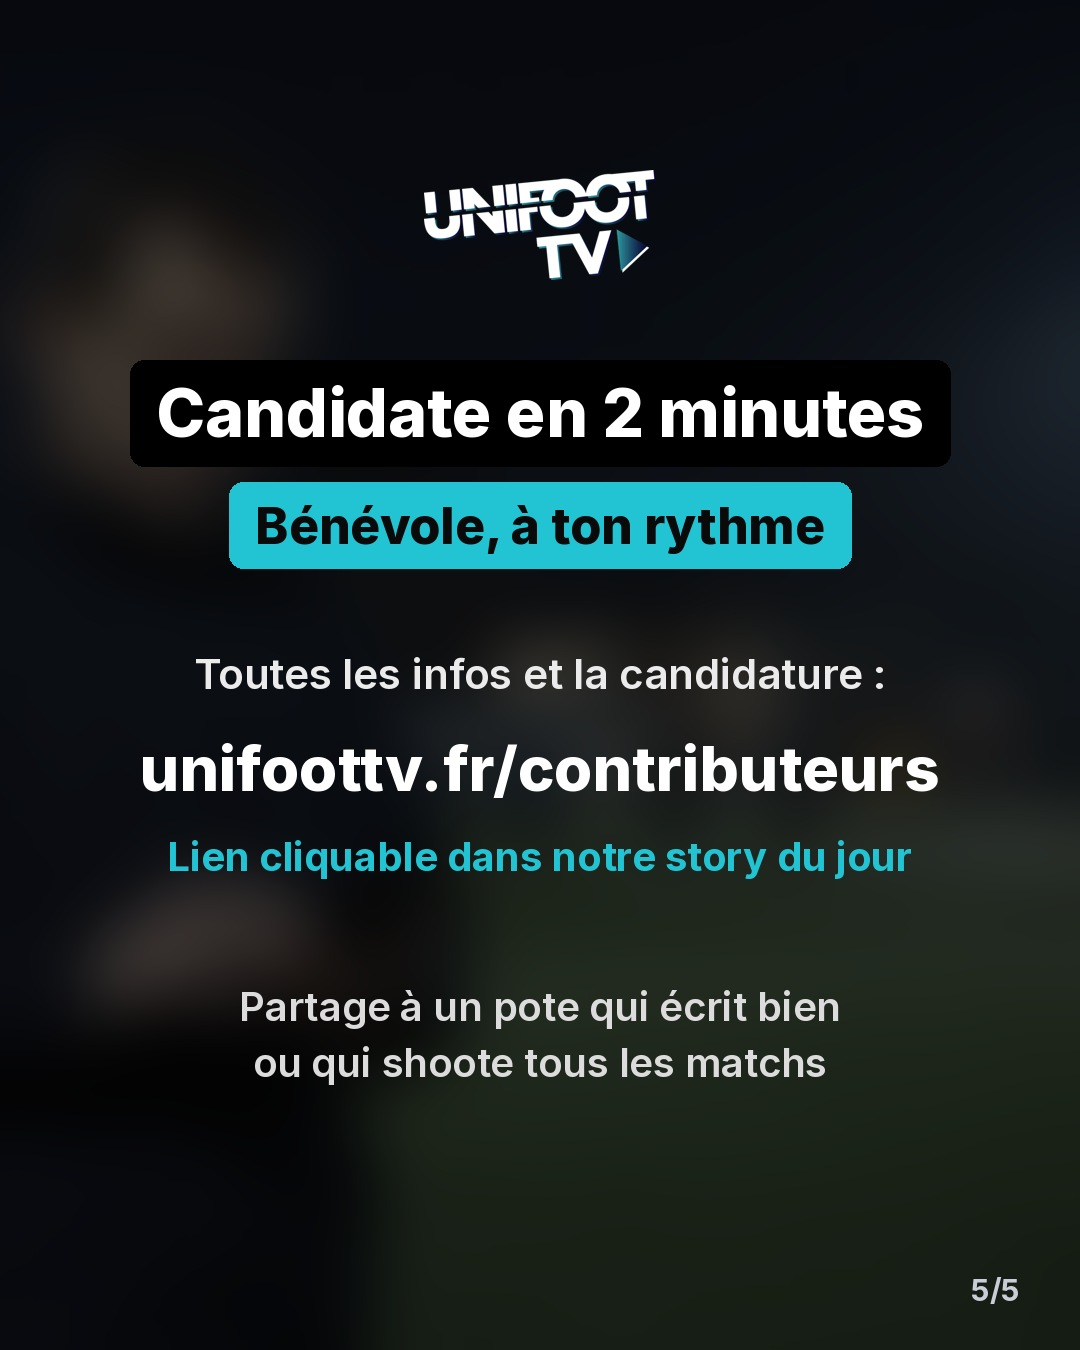
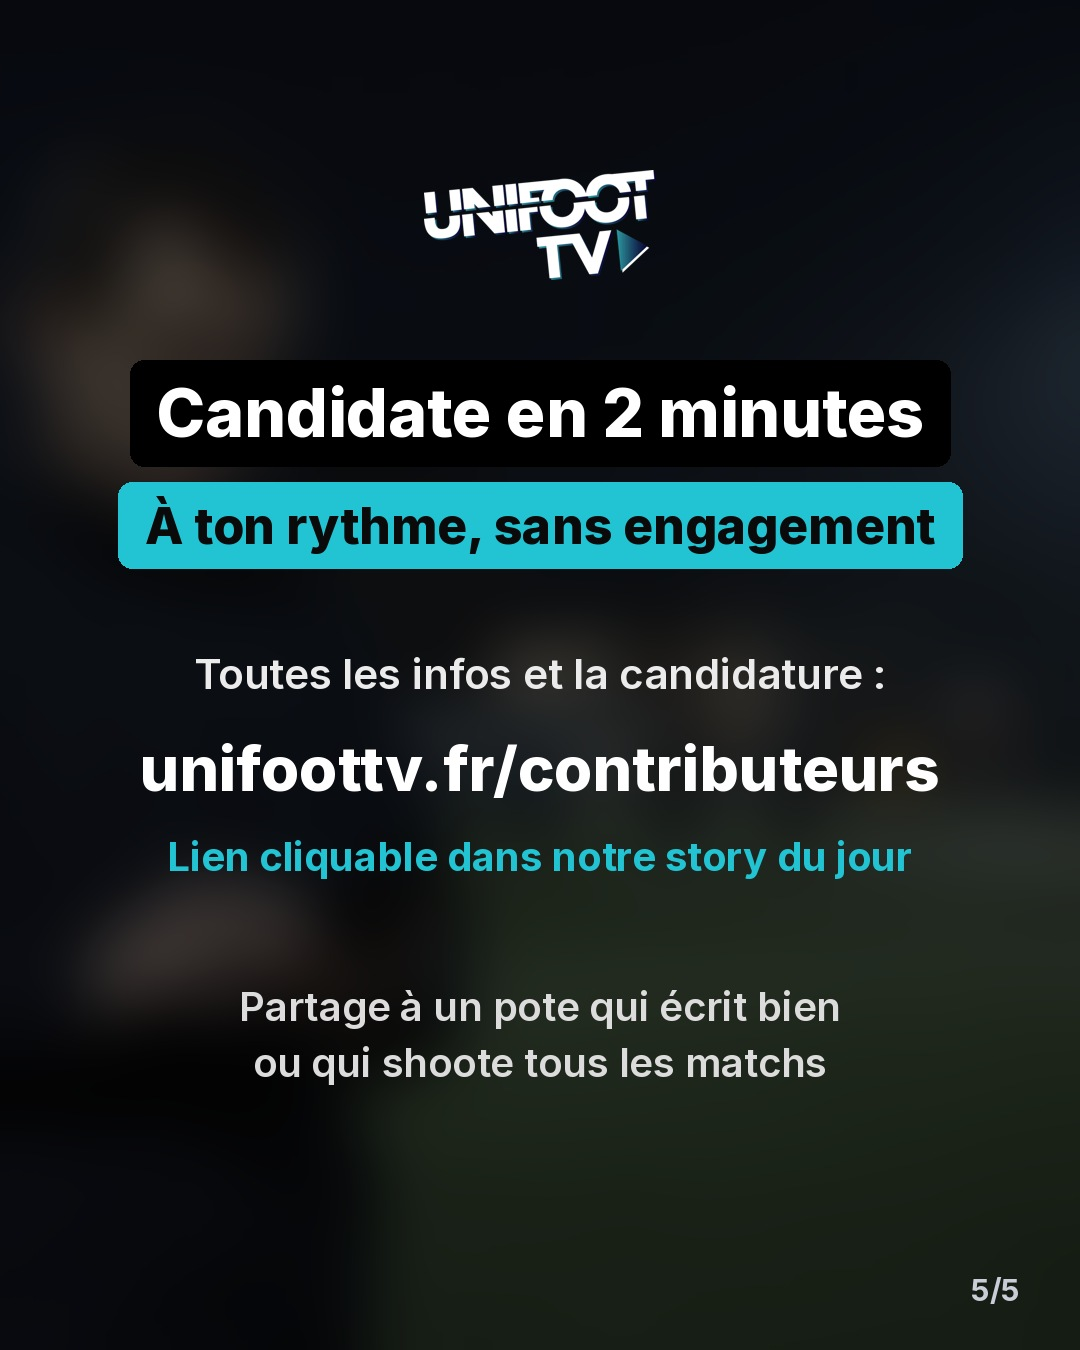
Carrousels contributeurs : retrait de « bénévole »
Claude-Session: https://claude.ai/code/session_013rfF2X7KN3Vzq4WuT958pE

Changed region(s): [[0.0917, 0.3422, 0.9167, 0.4356]]

diff --git a/tools/promo/contrib.py b/tools/promo/contrib.py
@@ -85,7 +85,7 @@ def cta(photo,out):
     logo(im,W,170,110)
     y=360
     for l in ['Candidate en 2 minutes']: y+=box(d,W,y,l,FN('ExtraBold',66))+16
-    y+=box(d,W,y,'Bénévole, à ton rythme',FN('ExtraBold',50),fill=TEAL,tc=(10,10,10))+80
+    y+=box(d,W,y,'À ton rythme, sans engagement',FN('ExtraBold',50),fill=TEAL,tc=(10,10,10))+80
     for l,f,c in [('Toutes les infos et la candidature :',FN('SemiBold',42),(235,235,235)),('unifoottv.fr/contributeurs',FN('ExtraBold',62),(255,255,255)),('Lien cliquable dans notre story du jour',FN('Bold',40),TEAL)]:
         w=d.textlength(l,font=f); d.text(((W-w)/2,y),l,font=f,fill=c); y+=f.size+40
     y+=70
